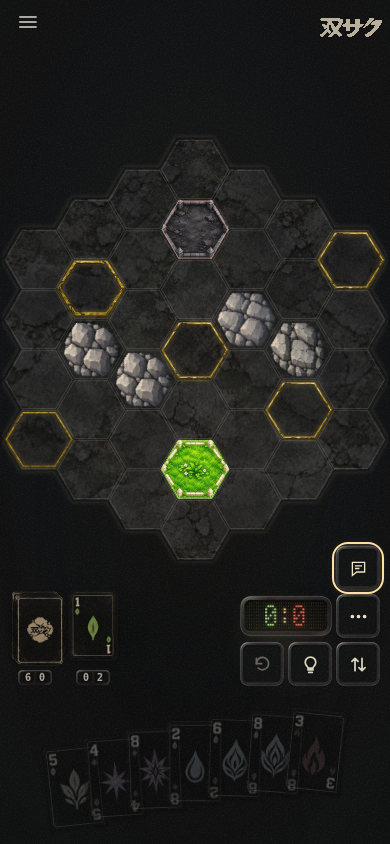
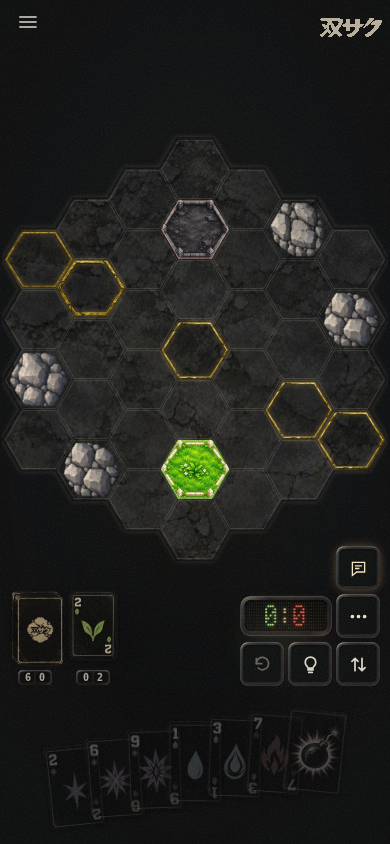
Remove bright focus contour from the cockpit chat key

diff --git a/web/src/online/chat/style.ts b/web/src/online/chat/style.ts
@@ -6,7 +6,7 @@ export const CHAT_CSS = `
 #smart-panel > #match-chat-toggle::before {content:'';position:absolute;inset:0;pointer-events:none;background:url('./hardware/button-frame-supplied.webp') center / contain no-repeat;}
 #smart-panel > #match-chat-toggle svg {position:relative;width:21px;height:21px;z-index:1;opacity:.94;}
 #smart-panel > #match-chat-toggle:is(:hover,:focus-visible,[aria-expanded='true']) {color:#fff1cf;box-shadow:0 0 9px var(--light-bloom,rgba(196,150,88,.22));}
-#smart-panel > #match-chat-toggle:focus-visible {outline:2px solid #ffe1a7;outline-offset:2px;}
+#smart-panel > #match-chat-toggle:focus-visible {outline:none;}
 #smart-panel > .match-chat-preview {position:absolute;top:auto;left:auto;right:0;bottom:calc(100% + var(--control-size,44px) + var(--control-gap,4px) + 8px);color:#e8ddc5;box-sizing:border-box;}
 #match-chat-toggle svg {width:19px;height:19px;stroke:currentColor;stroke-width:1.5;fill:none;}
 .match-chat-dot {position:absolute;right:5px;top:6px;width:6px;height:6px;border-radius:50%;background:#e8ddc5;box-shadow:0 0 0 3px rgba(8,10,10,.5);}

diff --git a/web/e2e/match-chat.ts b/web/e2e/match-chat.ts
@@ -517,6 +517,18 @@ try {
     );
     await visual.screenshot({ path: `${out}/chat-${width}x${height}.png` });
     await visual.keyboard.press('Escape');
+    if (width === 390)
+      check(
+        'cockpit chat focus uses a quiet glow without a bright outline',
+        await visual.locator('#match-chat-toggle').evaluate((e) => {
+          const s = getComputedStyle(e);
+          return (
+            e === document.activeElement &&
+            s.outlineStyle === 'none' &&
+            s.boxShadow !== 'none'
+          );
+        }),
+      );
     await visual.screenshot({ path: `${out}/cockpit-${width}x${height}.png` });
   }
   await sender.setViewportSize({ width: 390, height: 844 });

diff --git a/docs/MATCH-CHAT.md b/docs/MATCH-CHAT.md
@@ -227,3 +227,6 @@ Validation for cockpit placement: 33 match-chat browser checks passed, 16 focuse
 TypeScript and Futa04 production build/assets checks passed, and the existing cockpit regression
 suite passed **882 checks** across phone/desktop sizes and both hand sides. Reviewed closed-state
 [phone capture](screens/match-chat/cockpit.png). No merge or deployment performed.
+The cockpit chat key no longer draws a bright focus-outline rectangle. Its native hardware frame
+remains; keyboard focus uses the quiet existing glow. Verified in screenshots and 34 browser checks,
+including a focused-key assertion that the outline is absent while the glow remains.
